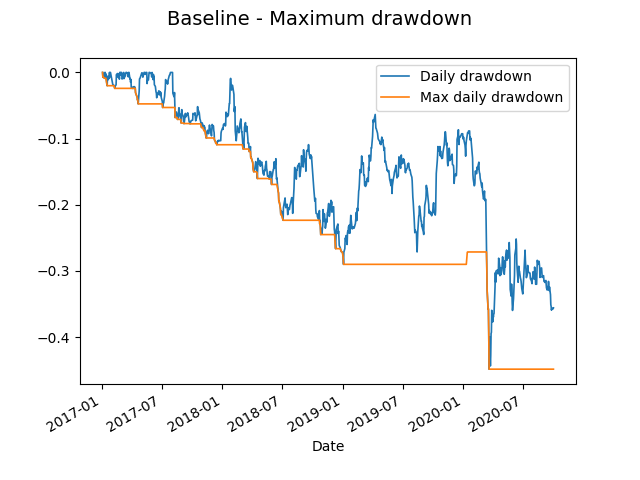
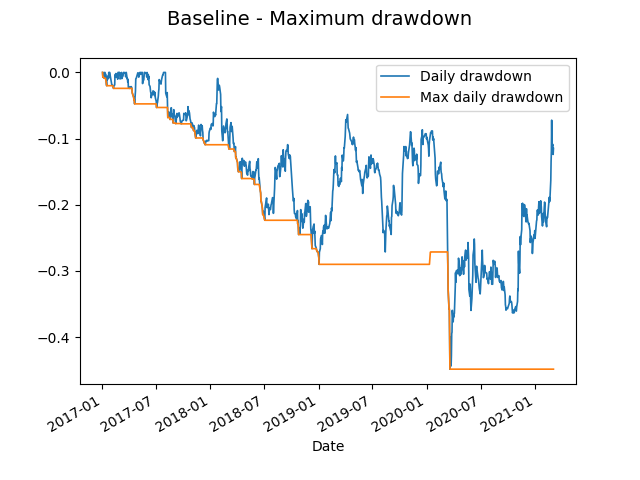
Update backtester wrapper & gitignore

diff --git a/code/integrated-strategy/output-backtester_wrapper.py b/code/integrated-strategy/output-backtester_wrapper.py
@@ -1,0 +1,111 @@
+import matplotlib.pyplot as plt
+import numpy as np
+import matplotlib as mpl
+import pandas as pd
+import sys
+
+sys.path.append("..")
+sys.path.append("../technical-analysis_python/")
+mpl.use('tkagg')  # issues with Big Sur
+
+# technical analysis
+from strategy.macd_crossover import macdCrossover
+from backtest import Backtest
+from evaluate import PortfolioReturn, SharpeRatio, MaxDrawdown, CAGR
+
+
+def backtest(symbol):
+    price_file = '../../database/microeconomic_data/hkex_ticks_day/hkex_' + symbol + '.csv'
+
+    # load price data
+    df_whole = pd.read_csv(price_file, header=0, index_col='Date', parse_dates=True)
+
+    # select time range (for trading)
+    start = '2017-01-03'
+    end = '2021-03-03'
+    start_date = pd.Timestamp(start)
+    end_date = pd.Timestamp(end)
+
+    df = df_whole.loc[start_date:end_date]
+
+    ticker = symbol + ".HK"
+
+    # load signals csv (output from ML model)
+    signals_file = './output/' + symbol + '_output.csv'
+
+    signals = pd.read_csv(signals_file,
+                        header=0, index_col='Date', parse_dates=True)
+    signals['positions'] = signals['signal'].diff()
+    signals = signals[~signals.index.duplicated(keep='first')]
+
+    df = df[~df.index.duplicated(keep='first')]
+    #print(signals.head())
+    #print(df.head())
+
+    """
+    Backtesting & evaluation
+    """
+    portfolio, backtest_fig = Backtest(ticker, signals, df)
+    plt.close()  # hide figure
+    print("Final total value: {value:.4f} ".format(
+            value=portfolio['total'][-1]))
+
+    portfolio_return = (
+        ((portfolio['total'][-1] - portfolio['total'][0]) / portfolio['total'][-1]) * 100)
+    print("Total return: {value:.4f}%".format(value=portfolio_return))
+
+    trade_signals_num = len(signals[signals.positions == 1])
+    print("No. of trade: {value}".format(
+        value=trade_signals_num))
+
+
+    """
+    Plotting figures
+    """
+    backtest_fig.suptitle('Baseline - Portfolio value', fontsize=14)
+    backtest_fig.savefig('./figures/' + symbol + '-LSTM_portfolio-value')
+    #plt.show()
+
+    # Evaluate strategy
+
+    # 1. Portfolio return
+    returns_fig = PortfolioReturn(portfolio)
+    returns_fig.suptitle('Baseline - Portfolio return')
+    returns_filename = './figures/' + symbol + '-LSTM_portfolo-return'
+    returns_fig.savefig(returns_filename)
+    #plt.show()
+
+    # 2. Sharpe ratio
+    sharpe_ratio = SharpeRatio(portfolio)
+    print("Sharpe ratio: {ratio:.4f} ".format(ratio=sharpe_ratio))
+
+    # 3. Maximum drawdown
+    maxDrawdown_fig, max_daily_drawdown, daily_drawdown = MaxDrawdown(df)
+    maxDrawdown_fig.suptitle('Baseline - Maximum drawdown', fontsize=14)
+    maxDrawdown_filename = './figures/' + symbol + '-LSTM_maximum-drawdown'
+    maxDrawdown_fig.savefig(maxDrawdown_filename)
+    #plt.show()
+
+    # 4. Compound Annual Growth Rate
+    cagr = CAGR(portfolio)
+    print("CAGR: {cagr:.4f} ".format(cagr=cagr))
+
+
+    # Write to file
+    f = open("LSTM_results.csv", "a")
+    f.write(ticker + ',' + start + ',' + end + ',' + str(portfolio_return) + ',' +
+            str(sharpe_ratio) + ',' + str(cagr) + ',' + str(trade_signals_num) + '\n')
+    f.close()
+
+def main():
+    ticker_list = ['0001', '0002', '0003', '0004', '0005', '0016', '0019', '0113', '0168', '0175', '0386', '0388', '0669', '0700',
+                   '0762', '0823', '0857', '0868', '0883', '0939', '0941', '0968', '1211', '1299', '1818', '2319', '2382', '2688', '2689', '2899']
+
+    for ticker in ticker_list:
+
+        print("############ Ticker: " + ticker + " ############")
+        backtest(ticker)
+        print('\n')
+
+if __name__ == "__main__":
+    main()

diff --git a/code/integrated-strategy/LSTM-train_price-only_wrapper.py b/code/integrated-strategy/LSTM-train_price-only_wrapper.py
@@ -170,7 +170,7 @@ def LSTM_predict(symbol):
 def main():
     ticker_list = ['0001', '0002', '0003', '0004', '0005', '0016', '0019', '0113', '0168', '0175', '0386', '0388', '0669', '0700',
                    '0762', '0823', '0857', '0868', '0883', '0939', '0941', '0968', '1211', '1299', '1818', '2319', '2382', '2688', '2689', '2899']
-
+    
     for ticker in ticker_list:
 
         print("############ Ticker: " + ticker + " ############")

diff --git a/code/integrated-strategy/utils.py b/code/integrated-strategy/utils.py
@@ -15,6 +15,7 @@ def read_data(data_dir, symbol, dates):
   # data pre-processing
   df = df.rename(columns={symbol: 'Close'})
   df = df.fillna(method='ffill')  
+  df = df.fillna(0.0)
 
   return df
 
